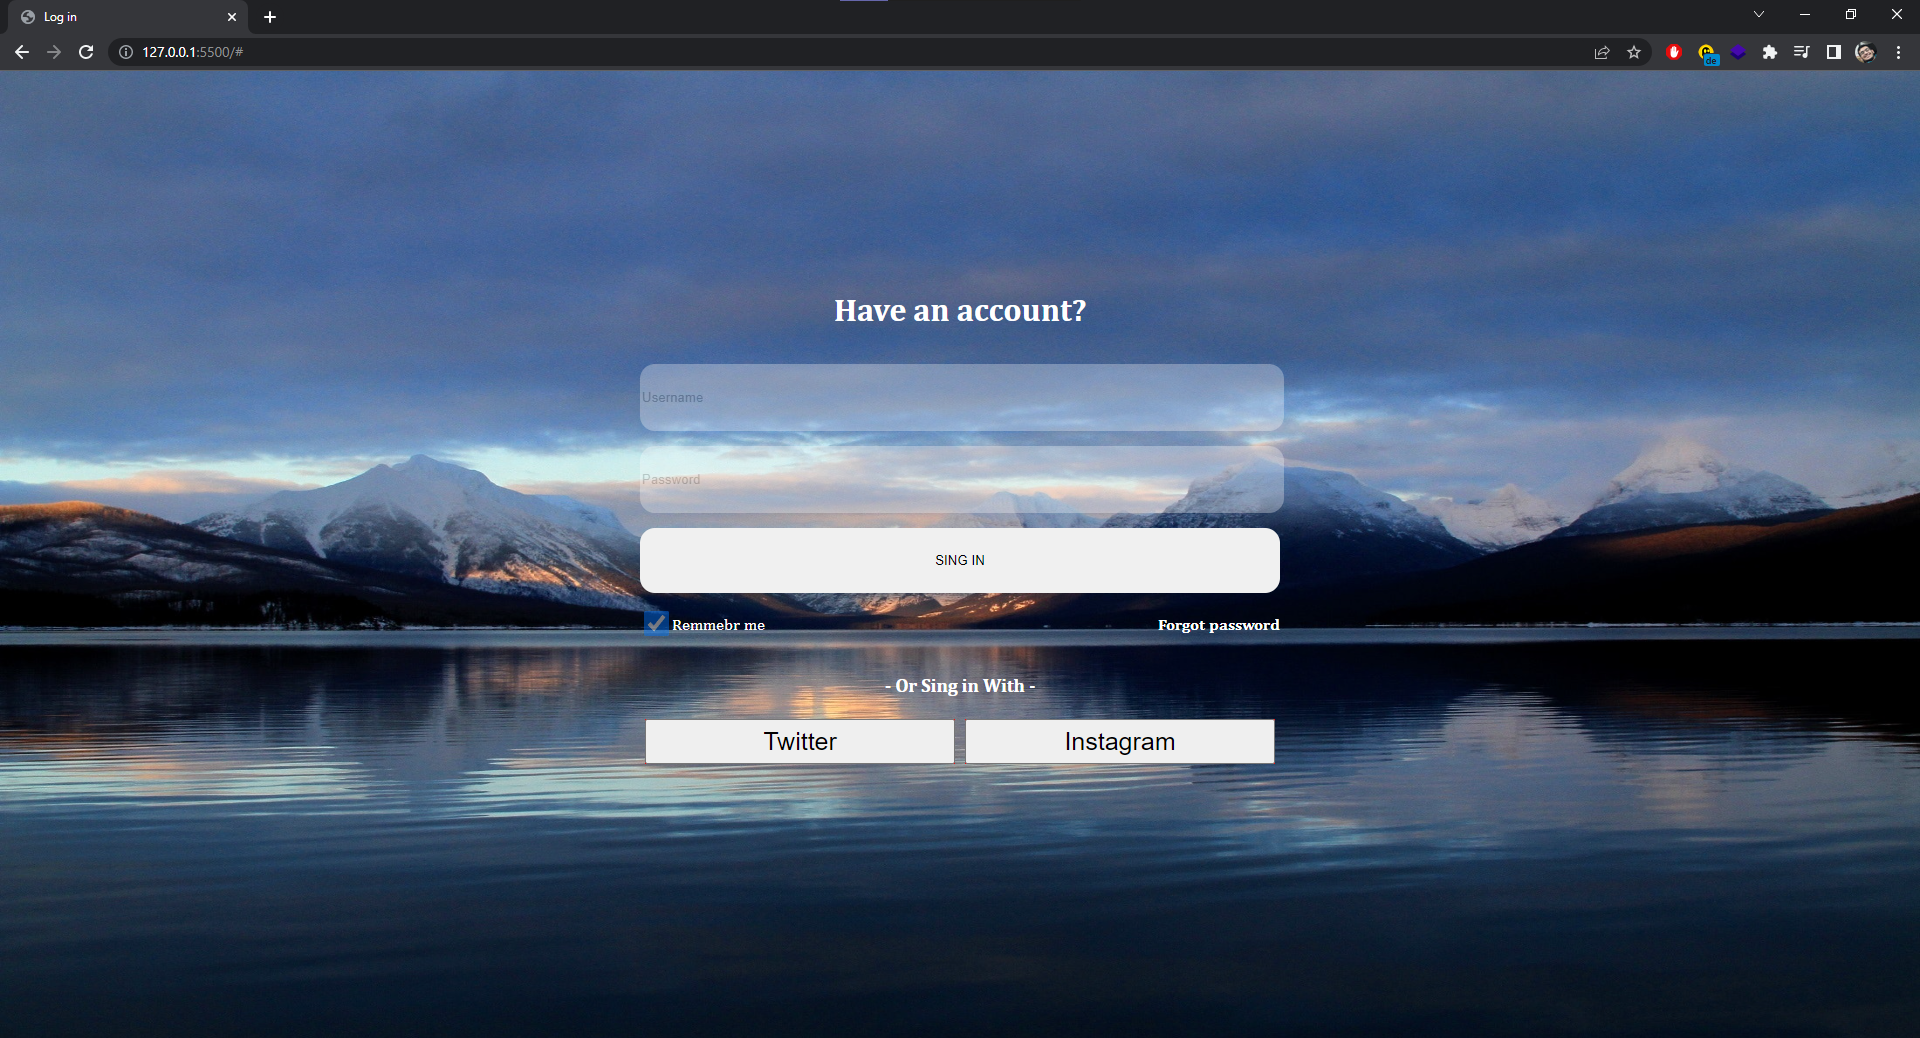
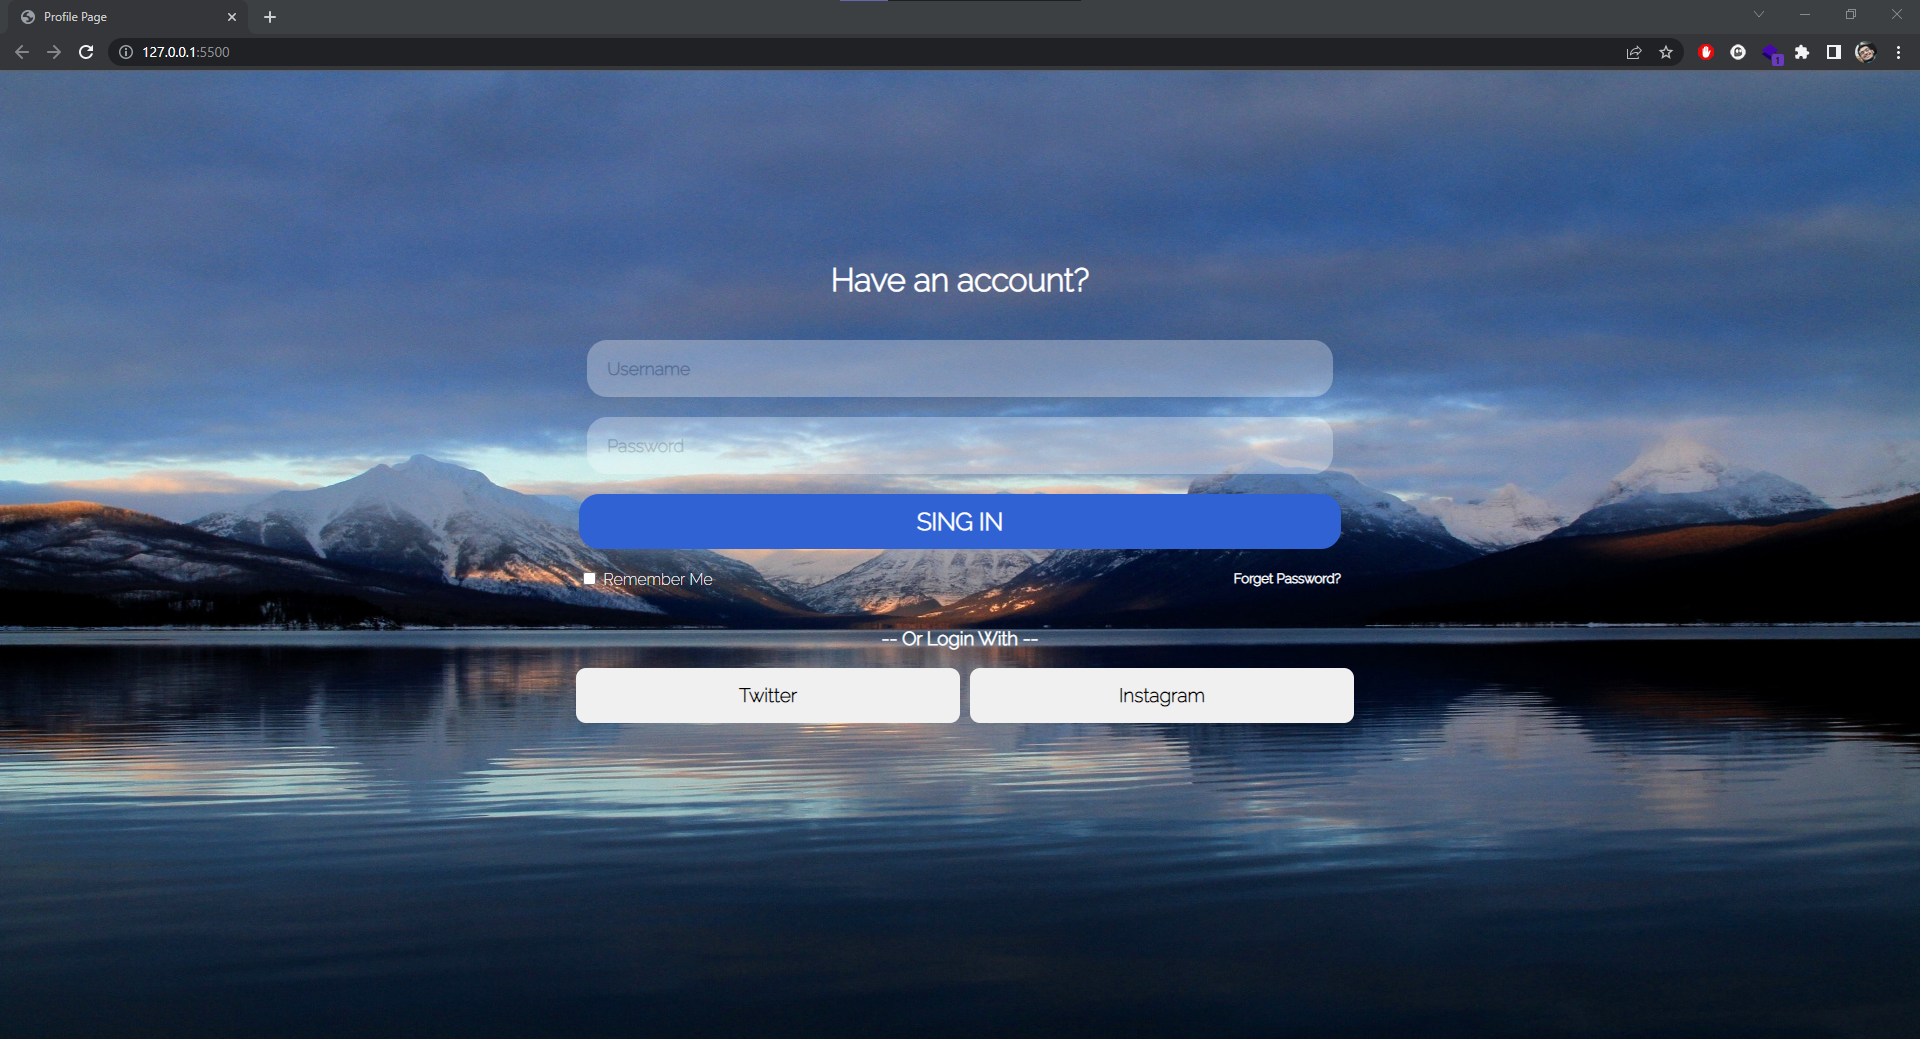
update 100%

diff --git a/login-Profile/style.css b/login-Profile/style.css
@@ -1,100 +1,106 @@
-body{
-    background-image: url('./img/pexels-pixabay-158366.jpg') ;
-    background-repeat: no-repeat;
-    background-size: 100% 100vh ; 
-    color:white;
-    font-family:Cambria, Cochin, Georgia, Times, 'Times New Roman', serif
-
+html{
+     --font:'Raleway', sans-serif;
 }
+
 .container{
-    display: flex;
-    justify-content: center;
-    align-items: center;
-    flex-direction: column;
-}
-
-.media{
     text-align: center;
-    width:640px;
+    width: 40%;
     margin: 10% auto;
-    margin-bottom: 0;
+    margin-top: 15%;
 }
 
-.boxs{
-    display: flex;
-    flex-direction: column;
-    justify-content: center;}
+body{
+    color:white;
+    background-image: url('./img/pexels-pixabay-158366.jpg');
+    background-repeat: no-repeat;
+    background-size: 100vw 100vh;
+    font-family: var(--font);
+}
+
 
 input[type="text"],input[type="password"]{
-    width:100%;
-    height: 65px;
-    border-radius: 15px;
-    opacity: 30%;
-    margin-top: 15px;
     border-style: none;
-    font-size: 20px;
+    width: 95%;
+    margin-top: 20px;
+    height: 55px;
+    border-radius: 20px;
+    opacity: 30%;
+    padding-left: 20px;
     font-weight: bold;
+    font-family: var(--font);
+    font-size: 1.1em;
+}
+
+
+input[type="text"]:hover{
+    box-shadow: 0px 0px 20px 5px #fff;
+    border: 1px solid white;
+}
+
+input[type="password"]:hover{
+    box-shadow: 0px 0px 20px 5px #fff;
+    border: 1px solid white;
 }
 
 input[type="submit"]{
-    width:100%;
-    height: 65px;
-    border-radius: 15px;
-    margin-top: 15px;
+    width: 100%;
+    margin-top: 20px;
+    height: 55px;
+    border-radius: 20px;
     border-style: none;
-    font-size: 30px;
+    background-color: rgb(49, 98, 212);    
     font-weight: bold;
+    font-size: 1.5em;
+    color:inherit;
+    font-family: var(--font);
+    padding:0;
 }
 
-input[type="checkbox"]{
-    width:25px;
-    height: 45px;
+input[type="submit"]:hover{
+    cursor: pointer;
 }
 
-.forgot{
+.footer-form{
     display: flex;
     justify-content: space-between;
     align-items: center;
 }
 
-.check{
-    opacity: 45%;
-}
-
-h4 a{
+.footer-form h5 a{
     text-decoration: none;
-    color: inherit;
+    color:inherit;
 }
 
-.checkbox{
-    display: flex;
+.footer{
+    display: flex; 
     justify-content: center;
     align-items: center;
 }
 
-
-footer{
-    width:640px;
-    text-align: center;
-}
-.sing-option{
-    display: flex;
-    width: 100%;
-}
-.sing-button{
-    margin: 5px;    
-    background-color: red;
-}
 button{
-    width: 310px;
-    height: 45px;
-    font-size: 25px;
+    margin-left: 10px;
+    width: 20vw;
+    height: 55px;
+    border-style: none;
+    border-radius: 10px;
+    font-family: var(--font);
+    font-size:1.2em;
+    font-weight: 600;
 }
 
-@media (max-width: 600px) {
-    body {
-        background-image: url('./img/pexels-pixabay-158366.jpg') ;
-        background-repeat: no-repeat;
-        background-size: 100% 100vh; 
-        color:white;    }
+button:hover{
+    cursor: pointer;
+}
+
+@media(max-width:384px){
+    button{
+        font-size: 0.5em;
+    }
+}
+
+@media(max-width:850px){
+    .container{
+        width: 80%;
+        margin-top: 30%;
+    }
 }

diff --git a/login-Profile/index.html b/login-Profile/index.html
@@ -4,56 +4,65 @@
     <meta charset="UTF-8" />
     <meta http-equiv="X-UA-Compatible" content="IE=edge" />
     <meta name="viewport" content="width=device-width, initial-scale=1.0" />
-    <title>Log in</title>
+    <title>Profile Page</title>
+    <link rel="preconnect" href="https://fonts.googleapis.com" />
+    <link rel="preconnect" href="https://fonts.gstatic.com" crossorigin />
+    <link
+      href="https://fonts.googleapis.com/css2?family=Raleway:wght@200&display=swap"
+      rel="stylesheet"
+    />
     <link rel="stylesheet" href="./style.css" />
   </head>
   <body>
     <div class="container">
-      <div class="media">
-        <header>
-          <div class="header">
-            <h1>Have an account?</h1>
-          </div>
-        </header>
-        <main>
-          <div class="boxs">
+      <!-- header START -->
+      <header>
+        <div class="header">
+          <h1>Have an account?</h1>
+        </div>
+      </header>
+      <!-- header END -->
+
+      <!-- main START -->
+      <main>
+        <div class="media-body">
+          <div>
             <input type="text" placeholder="Username" />
+          </div>
+          <div>
             <input type="password" placeholder="Password" />
+          </div>
+          <div>
             <input type="submit" value="SING IN" />
           </div>
-          <div class="forgot">
-            <div class="checkbox">
-              <form>
-                <input id="for" type="checkbox" class="check" />
-              </form>
-              <label >Remmebr me</label>
+          <div class="footer-form">
+            <div>
+              <input id="checkbox" type="checkbox" />
+              <label for="checkbox"> Remember Me </label>
             </div>
             <div>
-              <h4>
-                <a href="#"> Forgot password </a>
-              </h4>
+              <h5>
+                <a href="#"> Forget Password? </a>
+              </h5>
             </div>
           </div>
-      </div>
-    </main>
-    <footer>
-    <div class="footer">
-            <h3>- Or Sing in With -</h3>
-            
-            <div class="sing-option">
-                
-                <div class="sing-button" >
-                    <button>Twitter</button>
-                </div>
-
-                <div class="sing-button" >
-                    <button>Instagram</button>
-                </div>
-                
-            </div>
-        
         </div>
-    </footer>
+      </main>
+      <!-- main END -->
+
+      <!-- footer START -->
+      <footer>
+        <h3>-- Or Login With --</h3>
+        <div class="footer">
+          <div>
+            <button class="button">Twitter</button>
+          </div>
+          <div>
+            <button class="button">Instagram</button>
+          </div>
+        </div>
+      </footer>
+      <!-- footer END -->
     </div>
   </body>
 </html>
